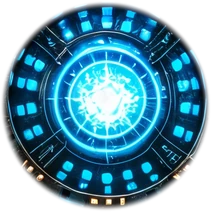
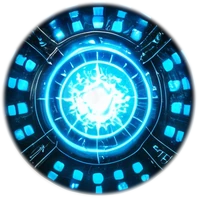
Version 0.12.3: Reaktor-Kern dreht um seine gemessene Mitte (vorher 7 px zu tief, Ring drehte mit); PC-Ton als Balken von unten nach oben, je Bild weich nachgeführt (flüssig), Spitzen-Marken, golden wenn L.O.K.I. spricht

diff --git a/hud5/inhalte.js b/hud5/inhalte.js
@@ -153,39 +153,42 @@ function bestellungen(g, b, h, d) {
     g.strokeStyle = 'rgba(95,246,255,0.08)'; g.beginPath(); g.moveTo(16, y + zeile - 0.5); g.lineTo(b - 16, y + zeile - 0.5); g.stroke()
   })
 }
-/** Tonwellen: was der PC abspielt (Wallpaper Engine liefert 64 Bänder je Kanal), gespiegelt als weiche Welle; spricht
- *  L.O.K.I., kommt seine Welle in Gold dazu */
+/**
+ * PC-Ton als Balken von unten nach oben (Wunsch Auftraggeber 05.11.2026: „wie man das kennt“, flüssig statt ruckig).
+ * 48 Balken, Bass links, Höhen rechts (Tonbereiche logarithmisch verteilt). Die Werte kommen nur etwa 20–30-mal je
+ * Sekunde – darum wird jedes Bild weich nachgeführt: schnell hoch, langsam runter; dazu fallende Spitzen-Marken.
+ * Spricht L.O.K.I., leuchten die Balken golden.
+ */
+const BALKEN = 48, anzeige = new Float32Array(BALKEN), spitze = new Float32Array(BALKEN)
+let letztesBild = 0
 function tonwellen(g, b, h, ton, t, loki, tonStatus) {
-  // Zustand des PC-Tons als Hilfe bei der Fehlersuche: KEIN TON-ZUGRIFF (Wallpaper Engine bietet keinen an), WARTET AUF TON
-  // (angemeldet, aber noch keine Daten), STILLE (Daten da, aber leise), PC-TON
   const pegel = ton ? Math.max(...Array.from(ton, Number).map((v) => (Number.isFinite(v) ? v : 0))) : 0
-  kopf(g, 'AUDIO', loki?.zustand === 'spricht' ? 'L.O.K.I. SPRICHT' : ton && pegel > 0.01 ? 'PC-TON' : tonStatus ?? 'STILLE', b)
-  const mitte = 34 + (h - 34) / 2, x0 = 16, x1 = b - 16, hoehe = (h - 50) / 2
-  const baender = 64, werte = []
-  for (let i = 0; i < baender; i++) {
-    const l = ton ? Math.min(1, ton[i] ?? 0) : 0, r = ton ? Math.min(1, ton[64 + i] ?? 0) : 0
-    werte.push(Math.max(0.015 + 0.012 * Math.sin(t * 2 + i * 0.4), (l + r) / 2))
+  const spricht = loki?.zustand === 'spricht'
+  kopf(g, 'AUDIO', spricht ? 'L.O.K.I. SPRICHT' : ton && pegel > 0.01 ? 'PC-TON' : tonStatus ?? 'STILLE', b)
+  const jetzt = performance.now(), dt = Math.min(0.1, Math.max(0.005, (jetzt - (letztesBild || jetzt)) / 1000)); letztesBild = jetzt
+  const x0 = 16, x1 = b - 16, unten = h - 12, oben = 42, hoehe = unten - oben, breite = (x1 - x0) / BALKEN
+  for (let i = 0; i < BALKEN; i++) {
+    // Tonbereich i: gestaucht über die 64 Bänder (Bass bekommt mehr Balken, jeder Balken eigene Bänder)
+    const a = Math.floor(Math.pow(i / BALKEN, 1.6) * 63), e = Math.max(a + 1, Math.floor(Math.pow((i + 1) / BALKEN, 1.6) * 63))
+    let ziel = 0
+    if (ton) for (let k = a; k < e; k++) ziel = Math.max(ziel, Math.min(1, ((Number(ton[k]) || 0) + (Number(ton[64 + k]) || 0)) / 2))
+    if (spricht && !ton) ziel = 0.25 + 0.35 * Math.abs(Math.sin(t * 6 + i * 0.4) * Math.sin(t * 2.3 + i * 0.13))
+    ziel = Math.pow(ziel, 0.8) // leise Töne etwas sichtbarer
+    const k = ziel > anzeige[i] ? 1 - Math.exp(-dt * 28) : 1 - Math.exp(-dt * 5) // schnell hoch, langsam runter
+    anzeige[i] += (ziel - anzeige[i]) * k
+    spitze[i] = Math.max(anzeige[i], spitze[i] - dt * 0.35)
   }
-  const welle = (w, farbe, breite, phase) => {
-    for (const s of [-1, 1]) {
-      g.beginPath()
-      for (let x = x0; x <= x1; x += 3) {
-        const f = (x - x0) / (x1 - x0), k = Math.min(baender - 1, Math.floor(Math.abs(f - 0.5) * 2 * baender)) // Mitte = Bass
-        const huelle = Math.sin(f * Math.PI)
-        const y = mitte + s * hoehe * w[k] * huelle * (0.75 + 0.25 * Math.sin(x * 0.11 + t * 9 + phase))
-        x === x0 ? g.moveTo(x, y) : g.lineTo(x, y)
-      }
-      g.strokeStyle = farbe; g.lineWidth = breite; g.stroke()
-    }
-  }
-  g.save(); g.shadowColor = CYAN; g.shadowBlur = 8
-  welle(werte, 'rgba(95,246,255,0.35)', 4, 0); welle(werte, CYAN, 1.4, 0)
-  if (loki?.zustand === 'spricht') { // Lokis eigene Stimme (Pegel nicht bekannt → lebhafte Kunstwelle)
-    const v = werte.map((_, i) => 0.35 + 0.45 * Math.abs(Math.sin(t * 7 + i * 0.5) * Math.sin(t * 3.1 + i * 0.13)))
-    g.shadowColor = GOLD; welle(v, 'rgba(242,176,74,0.9)', 1.6, 1.7)
+  const farbe = spricht ? [242, 176, 74] : [95, 246, 255]
+  g.save()
+  for (let i = 0; i < BALKEN; i++) {
+    const x = x0 + i * breite + 1, bw = Math.max(1, breite - 3), hb = Math.max(1.5, anzeige[i] * hoehe)
+    const v = g.createLinearGradient(0, unten - hb, 0, unten)
+    v.addColorStop(0, `rgba(${farbe},0.95)`); v.addColorStop(1, `rgba(${farbe},0.25)`)
+    g.fillStyle = v; g.fillRect(x, unten - hb, bw, hb)
+    if (spitze[i] > 0.02) { g.fillStyle = `rgba(${farbe},0.9)`; g.fillRect(x, unten - spitze[i] * hoehe - 3, bw, 2) }
   }
   g.restore()
-  g.strokeStyle = 'rgba(95,246,255,0.18)'; g.beginPath(); g.moveTo(x0, mitte + 0.5); g.lineTo(x1, mitte + 0.5); g.stroke()
+  g.strokeStyle = 'rgba(95,246,255,0.25)'; g.beginPath(); g.moveTo(x0, unten + 0.5); g.lineTo(x1, unten + 0.5); g.stroke()
 }
 
 // ---------- Inhalte rechts (Haus) ----------

diff --git a/hud5/szene.js b/hud5/szene.js
@@ -480,7 +480,7 @@ function entladung(r, t) {
 }
 
 function blitze(g, s, t, rate, anteil) {
-  const r = s.geo.reaktor
+  const r = s.geo.kern ?? s.geo.reaktor
   if (!s.naechsterBlitz) s.naechsterBlitz = t + 3
   if (t >= s.naechsterBlitz) {
     s.blitze.push(entladung(r, t))
@@ -526,7 +526,7 @@ function blitze(g, s, t, rate, anteil) {
 
 /** Reaktor: Kernscheibe dreht, Lauflicht wandert durch die Zellen, Kern und Lichthof pulsieren, Blitze */
 function reaktor(g, s, t, opt, anteil) {
-  const r = s.geo.reaktor, kz = s.geo.ebenen.kernscheibe, ze = s.geo.ebenen.zellen
+  const r = s.geo.kern ?? s.geo.reaktor, kz = s.geo.ebenen.kernscheibe, ze = s.geo.ebenen.zellen
   const spricht = opt.loki === 'spricht' ? Math.min(1, opt.pegel ?? 0.5) : 0
   const denkt = opt.loki === 'denkt' ? 1 : 0, aus = 1, rot = s.rot // stumm: rot statt blau (weich überblendet)
   const puls = 0.5 + 0.5 * Math.sin((t * Math.PI * 2) / 2.8)

diff --git a/scripts/grafik-v5-aufbereiten.py b/scripts/grafik-v5-aufbereiten.py
@@ -169,7 +169,20 @@ ausGrund('wasser', hell * (yy > 845))
 # Reaktor (Wunsch Auftraggeber 05.11.2026: lebendiger, Rauch dahinter, Spiegelung im See) – Kreise vermessen am
 # Grundbild: Steinring außen r ≈ 330, Spulenring r ≈ 120–215, Kernscheibe mit Lichtpunkten r < 98
 xx = np.mgrid[0:H, 0:B][1]
-rr = np.hypot(xx - GEO['reaktor']['x'], yy - GEO['reaktor']['y'])
+# genaue Mitte des Kerns (Rückmeldung Auftraggeber 05.11.2026: die drehende Mitte saß leicht zu tief, ein Stück vom Ring
+# drehte mit): die Mitte suchen, um die der dunkle Spalt zwischen Kernscheibe und Spulenring (r ≈ 90–100) am dunkelsten ist
+hell_ = np.asarray(Image.fromarray(grund).convert('L')).astype(np.float32)
+beste = None
+for cy in np.arange(GEO['reaktor']['y'] - 14, GEO['reaktor']['y'] + 14, 0.5):
+    for cx in np.arange(GEO['reaktor']['x'] - 12, GEO['reaktor']['x'] + 12, 0.5):
+        y0, x0 = int(cy) - 125, int(cx) - 125
+        Y, X = np.mgrid[y0:y0 + 250, x0:x0 + 250]; r_ = np.hypot(X - cx, Y - cy); sub = hell_[y0:y0 + 250, x0:x0 + 250]
+        for k in range(84, 108, 2):
+            m = sub[(r_ >= k) & (r_ < k + 2)].mean()
+            if beste is None or m < beste[0]: beste = (m, float(cx), float(cy), k)
+GEO['kern'] = {'x': beste[1], 'y': beste[2], 'spalt': beste[3]}
+print('Kernmitte', GEO['kern'])
+rr = np.hypot(xx - GEO['kern']['x'], yy - GEO['kern']['y'])
 def kreis(r0, r1, rand):
     return np.clip((rr - r0) / rand + 1, 0, 1) * np.clip((r1 - rr) / rand + 1, 0, 1)
 # Umriss des Reaktors aus der freigestellten Vorlage (1254 px im 4K-Bildschirm, Mitte bei 1922/989) – genauer als ein
@@ -178,7 +191,7 @@ vorlage = Image.open(Q + '03_CENTER/REACTOR/REACTOR_ORIGINAL_TRANSPARENT_1254x12
 umriss = Image.new('L', (B, H)); s2 = 1254 / 2
 umriss.paste(vorlage.getchannel('A').resize((round(s2), round(s2)), Image.LANCZOS), (round(GEO['reaktor']['x'] - s2 / 2), round(GEO['reaktor']['y'] - s2 / 2)))
 ausGrund('reaktor', cv2.erode(np.asarray(umriss, np.float32) / 255, np.ones((3, 3), np.uint8)))
-ausGrund('kernscheibe', kreis(-10, 98, 6))
+ausGrund('kernscheibe', kreis(-10, GEO['kern']['spalt'] - 1, 4))  # nur die Scheibe innerhalb des dunklen Spalts
 blau = (gf[..., 2] - gf[..., 0] - 60) / 80  # leuchtende blaue Zellen zwischen den Spulen
 ausGrund('zellen', np.clip(blau, 0, 1) * kreis(118, 215, 6))
 ebene('halo', monitore([None, FX + 'REACTOR_CORE_HALO_PULSE_RGBA_3840x2160.png', None]))
